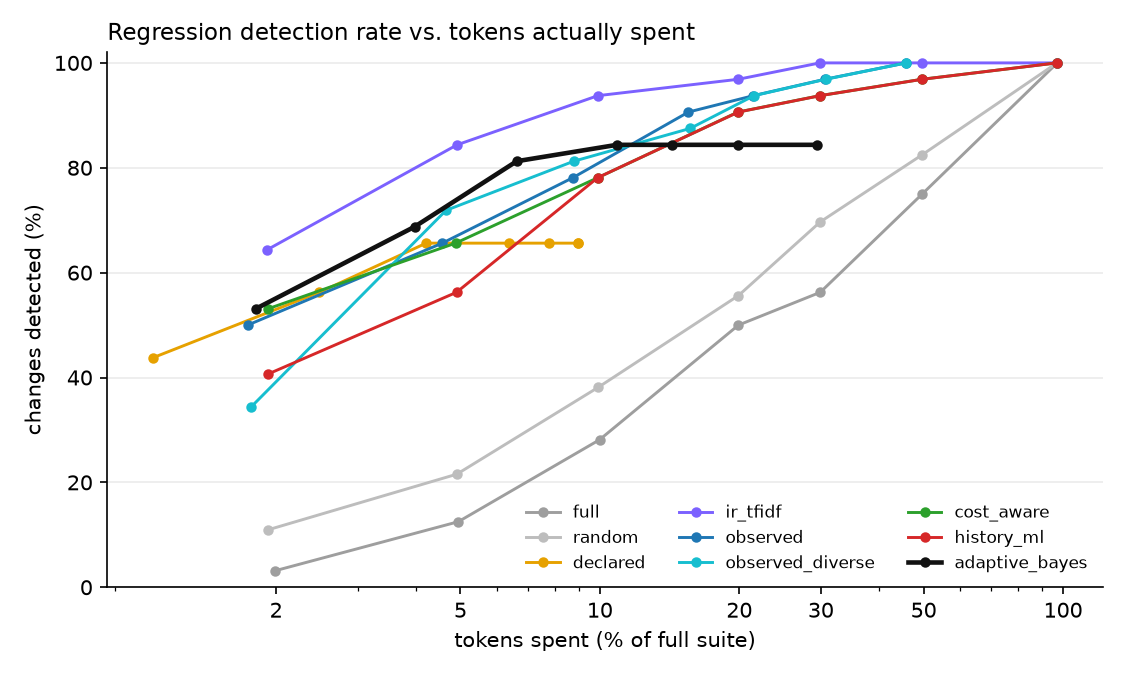
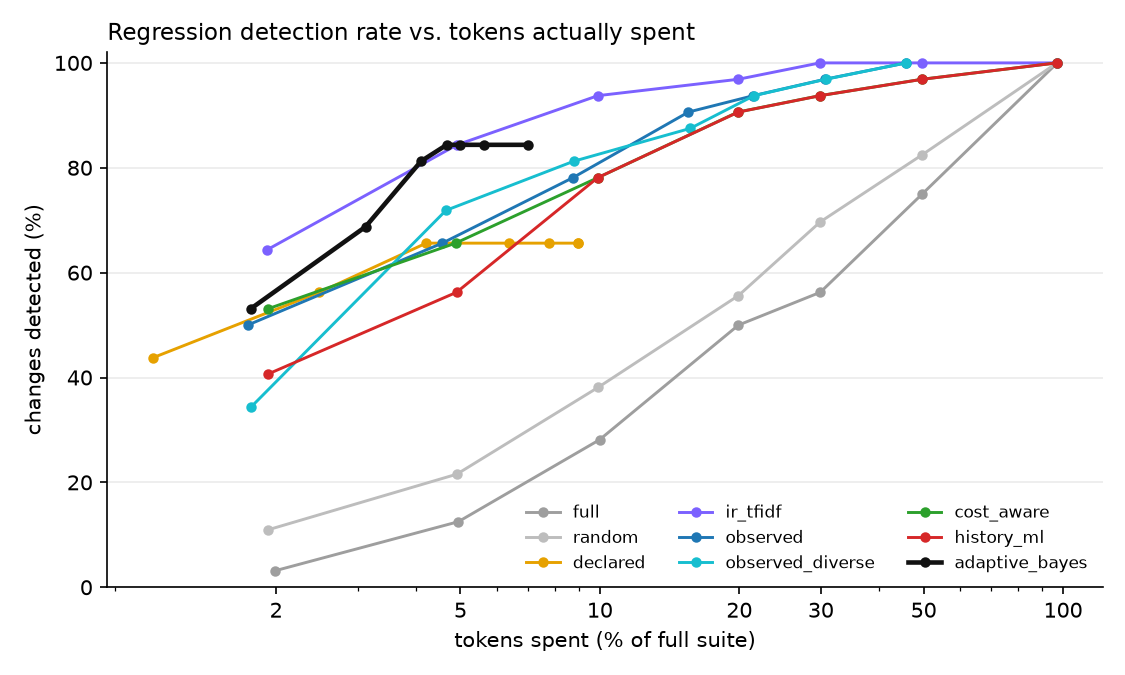
Confirm a failure by re-running it before the adaptive method moves on
A single failure could leave P(any broken) just under 1 - eps_detect; the
passes that followed then wore it down and the method ran to the end of its
budget. The failing test now runs once more before any other. Detection is
unchanged at every budget; tokens spent on regressions at full budget fall
from 29% to 7% of the suite (28% to 8% under flakiness), and no benign
change gets a "regression" verdict.

Also restate the false-alarm figure in RESEARCH_PLAN with its definition
and the current numbers, and keep the project venv in .venv (git-ignored).

Changed region(s): [[0.2489, 0.1867, 0.7467, 0.4356], [0.2178, 0.4356, 0.2489, 0.4667]]

diff --git a/trace-eval/traceeval/selection/adaptive_bayes.py b/trace-eval/traceeval/selection/adaptive_bayes.py
@@ -12,7 +12,10 @@ In plain words
      outcome (taking the test's baseline flakiness into account), and repeat.  After a test passes, tests
      that behave exactly like it (same agents, tools, fault profile, dataset) count for much less.
   4. We stop when P(something is broken) drops below eps_clean ("clean"), when a failure has pushed it
-     above 1 - eps_detect ("regression"), or when the budget is spent.
+     above 1 - eps_detect ("regression"), or when the budget is spent.  A failure that does not push it
+     that far is confirmed first: the same test runs once more before any other.  Flakiness rarely fails
+     a test twice in a row; a broken component does.  Without this, the passes that follow a real failure
+     wear the evidence down and the method runs on to the end of its budget.
 """
 
 import math
@@ -253,6 +256,7 @@ class AdaptiveBayes(Strategy):
         runs_left = np.where(flaky > 0.1, 2, 1)  # flaky tests may be re-run once
         remaining = ctx.budget
         seen_failure = False
+        confirm, confirmed = None, set()  # a failed test to re-run before any other; tests already re-run
         trajectory = []
         while True:
             p_any = 1.0 - post[0]  # hypothesis 0 = nothing broken
@@ -262,17 +266,24 @@ class AdaptiveBayes(Strategy):
             if stopping and seen_failure and p_any > 1.0 - self.eps_detect:
                 log.stop_reason = "regression"
                 break
-            gain, _ = self.info_gain(post, p_fail)
-            score = gain * risk / cost
-            score[(runs_left <= 0) | (cost > remaining) | (gain <= 1e-9)] = -1.0
-            i = int(np.argmax(score))
-            if score[i] <= 0:
-                log.stop_reason = "budget" if remaining < cost.min() else "uninformative"
-                break
+            if confirm is not None and cost[confirm] <= remaining:
+                i = confirm
+            else:
+                gain, _ = self.info_gain(post, p_fail)
+                score = gain * risk / cost
+                score[(runs_left <= 0) | (cost > remaining) | (gain <= 1e-9)] = -1.0
+                i = int(np.argmax(score))
+                if score[i] <= 0:
+                    log.stop_reason = "budget" if remaining < cost.min() else "uninformative"
+                    break
+            confirm = None
             passed, spent = oracle(tests[i])
             runs_left[i] -= 1
             remaining -= spent
             seen_failure = seen_failure or not passed
+            if stopping and not passed and i not in confirmed:
+                confirm = i
+                confirmed.add(i)
             log.steps.append((tests[i], passed, spent))
             post = post * ((1 - p_fail[i]) if passed else p_fail[i])
             post /= post.sum() or 1e-12

diff --git a/trace-eval/tests/test_mutation_and_selection.py b/trace-eval/tests/test_mutation_and_selection.py
@@ -98,5 +98,9 @@ def test_small_end_to_end_experiment(tmp_path):
         )
         log = get_strategy(name).run(ctx, make_oracle(h, "skill_publish_drop_link_validation", random.Random(0)))
         assert any(not ok for _, ok, _ in log.steps), name
+        if name == "adaptive_bayes":  # the first failure ends the run, or is re-run at once and then ends it
+            first = next(i for i, (_, ok, _) in enumerate(log.steps) if not ok)
+            assert first == len(log.steps) - 1 or log.steps[first + 1][0] == log.steps[first][0]
+            assert log.stop_reason == "regression"
     df = evaluate(work, strategies=["observed", "adaptive_bayes"], budgets=(0.2, 1.0), seeds=1)
     assert set(df.strategy) == {"observed", "adaptive_bayes"}

diff --git a/trace-eval/docs/RESEARCH_PLAN.md b/trace-eval/docs/RESEARCH_PLAN.md
@@ -17,9 +17,9 @@ Ciprian Păduraru · University of Bucharest · working document, 6 October 2026
 - **Testbed.** A small real multi-agent app (`traceeval/sut`), 136 tests, 38 controlled changes applied as real
   edits (6 benign), full-suite runs as ground truth, offline replay to compare strategies.
 - **Results so far (simulated agent).** Hand-written dependencies catch 66% of regressions; trace-based selection
-  catches 91% for 20% of the full-suite tokens; the adaptive method catches 84% for 11–29% and stops correctly on
-  benign changes; under 5% agent flakiness it never raises a false regression while the others do in 43–66% of
-  replays. TF-IDF over the diff is a surprisingly strong baseline (84% at 5%). Comments never count: change sets
+  catches 91% for 20% of the full-suite tokens; the adaptive method catches 84% for 5–7% and stops correctly on
+  benign changes; under 5% agent flakiness it never raises a false regression, while the others see at least one
+  failure the change did not cause in 18–65% of replays. TF-IDF over the diff is a surprisingly strong baseline (84% at 5%). Comments never count: change sets
   hold code only, so the results are the same whether or not the code is commented.
 - **Next.** Calibrate sensitivities per test (not per kind), fold the IR signal into the model, run the LLM backend
   on the DGX, then tau2-bench as the external system under test. Paper: ASE/ISSTA/ICST framing.
@@ -116,7 +116,7 @@ s_tc = r_kind(c) · freq_t(c) · tilt_t, where
 
 *Policy.* Next test = argmax over t of (expected information gain about B, tilted by risk) / c(t). After a **pass**, the sensitivities of tests sharing the same behaviour signature (agents, tools, fault profile, dataset) are discounted (×0.35): near-duplicate tests are correlated evidence, not independent draws. Flaky tests may be re-run once.
 
-*Stopping.* Stop "clean" when P(any component broken | evidence) < ε_clean (0.05); stop "regression" when a failure has been observed and P(any broken) > 1 − ε_detect; otherwise until the budget is exhausted or no test is informative. Selection, prioritization and stopping fall out of the same model.
+*Stopping.* Stop "clean" when P(any component broken | evidence) < ε_clean (0.05); stop "regression" when a failure has been observed and P(any broken) > 1 − ε_detect; otherwise until the budget is exhausted or no test is informative. A failure that does not reach 1 − ε_detect on its own is confirmed first: the same test runs once more before any other, since flakiness rarely fails a test twice in a row and a broken component does. Selection, prioritization and stopping fall out of the same model.
 
 ### 3.2 Why these baselines
 
@@ -169,6 +169,8 @@ Re-run again with code-only change sets (§2.1): comments, docstrings, blank lin
 
 Re-run 2026-11-06 after the `rollback_page` service started checking the `rollback` permission itself, with a new mutation that drops the rollback skill's own check (`skill_rollback_drop_permission_check`). With the service still refusing, that mistake leaves the data safe and shows only in behaviour: MNT-03 sees a forbidden call to `rollback_page` and an undeclared `permission_denied` error. It is the counterpart of `skill_publish_drop_permission_check`, where nothing below the skill stops the write. Its one revealing test is declared, so every strategy except `full` and `random` finds it at the 2% budget, and the averages below move by about a point because the set has one more easy regression. A control run of the previous code in the same environment reproduces the archived report exactly.
 
+Re-run again on 2026-11-06 after the adaptive method started confirming failures (§3.1). Before, a single failure could leave P(any broken) just under 1 − ε_detect, and the passes that followed wore it down: under the model, each passing covering test says "had the component been broken, I would probably have failed too". The method then ran on to the end of its budget. On `skill_rollback_drop_permission_check`, MNT-03's failure left P = 0.980 and the method went on to spend 93% of the suite; re-running MNT-03 raises it to 0.9996 and the method stops there. Detection is unchanged at every budget in both conditions. Tokens spent on regressions at full budget fall from 29% to 7% of the suite (from 28% to 8% under flakiness), the "regression" verdict on regressions rises from 940 to 1550 of the 2240 replays, and still no benign change gets one.
+
 Detection rate of regression-inducing changes (32) vs. nominal budget, and tokens actually spent:
 
 | strategy | 5% | 10% | 20% | 50% | 100% | spent @20% | spent @100% | waste on benign @100% |
@@ -179,17 +181,17 @@ Detection rate of regression-inducing changes (32) vs. nominal budget, and token
 | ir_tfidf | 0.84 | 0.94 | 0.97 | 1.00 | 1.00 | 0.20 | 0.97 | 0.99 |
 | observed | 0.66 | 0.78 | 0.91 | 0.97 | 1.00 | 0.16 | 0.46 | 0.22 |
 | cost_aware | 0.66 | 0.78 | 0.91 | 0.97 | 1.00 | 0.20 | 0.97 | 0.99 |
-| adaptive_bayes | 0.69 | 0.81 | 0.84 | 0.84 | 0.84 | **0.11** | **0.29** | **0.34** |
+| adaptive_bayes | 0.69 | 0.81 | 0.84 | 0.84 | 0.84 | **0.05** | **0.07** | **0.34** |
 
 Two optional baselines (`observed_diverse`, `history_ml`; `--strategies all`) stay within ±0.16 of `observed` at every budget. APFD / APFD_c of the full prioritized order: full 0.67/0.57, random 0.49/0.50, declared 0.81/0.76 (selection recall 0.52), ir_tfidf 0.81/0.83, observed 0.82/0.85 (selection recall 1.00 at 49% of the suite cost), observed_diverse 0.83/0.80, cost_aware 0.82/0.85, history_ml 0.81/0.83, adaptive_bayes 0.81/0.79. Cost to first detection: declared 0.024, adaptive 0.025, ir 0.026, cost_aware 0.044, observed 0.045, random 0.144 of the full suite.
 
 **Reading.**
 - *RQ1/RQ2.* Declared metadata caps detection at 66% because shared skills reached through `include`, harness code (retry, dispatcher, runtime loop) and configuration keys are not declared; observed dependencies recover full selection recall and reach 91% detection at 20% of the cost. This is the central quantitative argument for trace-informed selection.
 - *RQ3.* Informed strategies raise APFD_c from 0.50 (random) to 0.76–0.85; cost-aware ranking gives the best APFD_c.
-- *RQ4.* Only the adaptive method returns budget: 84% detection for 11–29% of the cost, 34% on benign changes. On the six benign changes it stopped "clean" in 90, had nothing to test in 140 (the two comment- and format-only changes leave an empty change set) and found "nothing informative left" in 11 of the 241 replays that were not budget-limited, and it raised **no false regression alarm** in any replay. The two crash mutations (one revealing test each) are found from 2% (metadata crash) and from 10% (links-service crash, which `declared` never finds). All five changes it never detects (router phrase weight, termination off-by-six, translation-intent reorder, authoring metadata step, shared link-validation asset rule) are cases where one to three tests among dozens of covering ones reveal the change: the calibrated sensitivities and the near-duplicate discount make the posterior clear before those tests are reached — the honest limit of coverage-based evidence, to be addressed by learned sensitivities at test level and a stronger IR term (§7). A behaviour-preserving edit inside a widely used function (`benign_code_rename_locals`) is declared clean only at full budget, after 82% of the suite (64% while its diff still carried comment words, which raised the lexical tilt of the covering tests): with calibrated sensitivities the model (correctly) does not believe that a few passing covering tests prove such an edit harmless, and below full budget the budget cap decides.
+- *RQ4.* Only the adaptive method returns budget: 84% detection for 5–7% of the cost, 34% on benign changes. On a regression it usually stops at the first confirmed failure, with a "regression" verdict in 1550 of the 2240 replays. On the six benign changes it stopped "clean" in 90, had nothing to test in 140 (the two comment- and format-only changes leave an empty change set) and found "nothing informative left" in 11 of the 241 replays that were not budget-limited, and it raised **no false regression alarm** in any replay. The two crash mutations (one revealing test each) are found from 2% (metadata crash) and from 10% (links-service crash, which `declared` never finds). All five changes it never detects (router phrase weight, termination off-by-six, translation-intent reorder, authoring metadata step, shared link-validation asset rule) are cases where one to three tests among dozens of covering ones reveal the change: the calibrated sensitivities and the near-duplicate discount make the posterior clear before those tests are reached — the honest limit of coverage-based evidence, to be addressed by learned sensitivities at test level and a stronger IR term (§7). A behaviour-preserving edit inside a widely used function (`benign_code_rename_locals`) is declared clean only at full budget, after 82% of the suite (64% while its diff still carried comment words, which raised the lexical tilt of the covering tests): with calibrated sensitivities the model (correctly) does not believe that a few passing covering tests prove such an edit harmless, and below full budget the budget cap decides.
 - *A finding to take seriously:* IR/TF-IDF over the diff is the strongest prioritizer on this testbed (84% at 5%, 94% at 10%). Test names, requests and declared tool names share vocabulary with the edited artefacts (skill procedures mention tool names; config keys appear in diffs). Agent test suites are unusually "textual", which makes IR a serious baseline — and a signal to fold into the Bayesian model more strongly than the current lexical tilt. Whether this holds on tau2-bench (policy text vs. task descriptions) is one of the first external-validity questions.
 
-**Nondeterministic condition** (`runs/exp2_flaky`: simulated agent with a 5% slot-slip rate, 5 reps per variant, 21 of 136 tests flaky at baseline; slips are seeded per test and repetition, so the run is reproducible). The majority-flip ground truth stays clean (sanity check OK) and detection stays close to the deterministic condition: within ±3 points at every budget for full, random, declared, ir and observed, within −8/+3 for cost_aware and −7/+4 for the optional baselines (observed 0.66/0.75/0.92 at 5/10/20%; ir 0.84/0.94/0.97). The adaptive method does as well or better here from 5% up (0.72/0.84/0.84, and 0.88 from 30%) because its misses differ: `code_get_page_review_flag`, `code_router_phrase_weight`, `code_termination_off_by_six` and `skill_linkval_ignore_assets`. The difference between families shows where it matters: strategies without an outcome model observe at least one spurious failure in 43–66% of replays (cost_aware 0.66, history_ml 0.65, random 0.59, full 0.57, ir 0.52, observed 0.43) — in practice a false "regression" alert each time — whereas the Bayesian selector, which carries each test's baseline flakiness in its likelihood and re-runs flaky tests once, observes one in 12% of replays and **never stops with a "regression" verdict on a benign change** (0 of 420). This is the nondeterminism argument of the requirements document made quantitative.
+**Nondeterministic condition** (`runs/exp2_flaky`: simulated agent with a 5% slot-slip rate, 5 reps per variant, 21 of 136 tests flaky at baseline; slips are seeded per test and repetition, so the run is reproducible). The majority-flip ground truth stays clean (sanity check OK) and detection stays close to the deterministic condition: within ±3 points at every budget for full, random, declared, ir and observed, within −8/+3 for cost_aware and −7/+4 for the optional baselines (observed 0.66/0.75/0.92 at 5/10/20%; ir 0.84/0.94/0.97). The adaptive method does as well or better here from 5% up (0.72/0.84/0.84, and 0.88 from 30%) because its misses differ: `code_get_page_review_flag`, `code_router_phrase_weight`, `code_termination_off_by_six` and `skill_linkval_ignore_assets`. The difference between families shows where it matters: strategies without an outcome model see at least one failure the change did not cause (a failing test outside the change's revealing set, counted over all changes and every budget) in 42–65% of replays (cost_aware 0.65, history_ml 0.65, random 0.59, full 0.58, ir 0.52, observed 0.42; declared, which runs few tests, 0.18) — in practice a false "regression" alert each time — whereas the Bayesian selector, which carries each test's baseline flakiness in its likelihood and re-runs a failing test before believing it, sees one in 3% of replays (8% on the benign changes alone, where it runs longest) and **never stops with a "regression" verdict on a benign change** (0 of 420). This is the nondeterminism argument of the requirements document made quantitative.
 
 ---
 
@@ -220,7 +222,7 @@ Immediate next steps (in order): run `runs/exp2_flaky`'s report and compare; imp
 
 **Working title.** TRACE-Eval: change-aware, cost-bounded regression test selection for LLM agent systems.
 
-**Abstract (draft).** Agent platforms ship dozens of agents assembled from skills, prompts, tools, harness code and configuration, and verify them with tests and statistical evals whose cost is dominated by tokens. After a change, teams either re-run everything or guess. We formulate selection, prioritization and budget-aware stopping of agent tests as one problem and propose a method that (i) extracts a change set from the diff at the granularity of code lines, skill procedures, agent-definition fields and configuration keys, (ii) maps it to tests through dependencies *observed* in execution traces rather than declared metadata, (iii) ranks tests by expected information per token in a Bayesian model whose sensitivities are calibrated from history, and (iv) stops when the posterior probability of a regression is low. We evaluate on a testbed with a real multi-agent application, 136 tests/eval items, and 38 controlled changes with mutation-based ground truth, under simulated and LLM-driven agents. Trace-informed selection recovers the 34% of regressions invisible to declared dependencies; the adaptive method detects 84% of regressions for 11–29% of the full-suite tokens and returns most of the budget on benign changes.
+**Abstract (draft).** Agent platforms ship dozens of agents assembled from skills, prompts, tools, harness code and configuration, and verify them with tests and statistical evals whose cost is dominated by tokens. After a change, teams either re-run everything or guess. We formulate selection, prioritization and budget-aware stopping of agent tests as one problem and propose a method that (i) extracts a change set from the diff at the granularity of code lines, skill procedures, agent-definition fields and configuration keys, (ii) maps it to tests through dependencies *observed* in execution traces rather than declared metadata, (iii) ranks tests by expected information per token in a Bayesian model whose sensitivities are calibrated from history, and (iv) stops when the posterior probability of a regression is low. We evaluate on a testbed with a real multi-agent application, 136 tests/eval items, and 38 controlled changes with mutation-based ground truth, under simulated and LLM-driven agents. Trace-informed selection recovers the 34% of regressions invisible to declared dependencies; the adaptive method detects 84% of regressions for 5–7% of the full-suite tokens and returns most of the budget on benign changes.
 
 **Outline.** 1 Introduction (motivation from AEM-scale platforms; nightly batch + PR use; three sub-problems) · 2 Background and related work (RTS/TCP; efficient LLM evaluation; agent benchmarks; fault injection; CASPER as closest work) · 3 Problem formulation and models (§1–2) · 4 Method (§3.1) · 5 Testbed (§4) · 6 Evaluation (RQ1–RQ4 + ablations + LLM/tau2 external validity) · 7 Threats to validity (synthetic mutants vs. real regressions; simulated agent realism; single primary domain; calibration leakage controlled by leave-one-change-out; textual testbed favouring IR) · 8 Conclusion.
 

diff --git a/trace-eval/docs/results/exp2_flaky/report.md b/trace-eval/docs/results/exp2_flaky/report.md
@@ -75,7 +75,7 @@ Tokens actually spent on those changes (fraction of the full suite):
 | observed_diverse | 0.018 | 0.047 | 0.088 | 0.157 | 0.215 | 0.307 | 0.458 |
 | cost_aware | 0.019 | 0.049 | 0.099 | 0.199 | 0.299 | 0.496 | 0.967 |
 | history_ml | 0.019 | 0.049 | 0.099 | 0.199 | 0.299 | 0.497 | 0.967 |
-| adaptive_bayes | 0.018 | 0.039 | 0.068 | 0.109 | 0.141 | 0.186 | 0.278 |
+| adaptive_bayes | 0.017 | 0.030 | 0.041 | 0.051 | 0.056 | 0.062 | 0.077 |
 
 ![detection vs cost](figures/detection_vs_cost.png)
 
@@ -105,7 +105,7 @@ Cost until the first true detection (fraction of the full suite, detected cases 
 | observed_diverse | 0.011 | 0.031 | 0.057 | 0.100 | 0.133 | 0.177 | 0.226 |
 | cost_aware | 0.020 | 0.049 | 0.099 | 0.198 | 0.298 | 0.498 | 0.989 |
 | history_ml | 0.019 | 0.049 | 0.099 | 0.199 | 0.299 | 0.499 | 0.989 |
-| adaptive_bayes | 0.012 | 0.033 | 0.066 | 0.117 | 0.151 | 0.218 | 0.360 |
+| adaptive_bayes | 0.012 | 0.033 | 0.066 | 0.117 | 0.151 | 0.218 | 0.372 |
 
 ![benign waste](figures/benign_waste.png)
 
@@ -113,8 +113,8 @@ Stop reasons of `adaptive_bayes` (rows: is the change a regression?):
 
 | is_regression | budget | clean | no_components | regression | uninformative |
 |---|---|---|---|---|---|
-| False | 186 | 85 | 140 | 0 | 9 |
-| True | 939 | 300 | 0 | 993 | 8 |
+| False | 193 | 83 | 140 | 0 | 4 |
+| True | 408 | 190 | 0 | 1640 | 2 |
 
 ## 4. Prioritization and selection quality
 

diff --git a/trace-eval/docs/results/exp1/report.md b/trace-eval/docs/results/exp1/report.md
@@ -75,7 +75,7 @@ Tokens actually spent on those changes (fraction of the full suite):
 | observed_diverse | 0.018 | 0.047 | 0.088 | 0.157 | 0.215 | 0.307 | 0.458 |
 | cost_aware | 0.019 | 0.049 | 0.099 | 0.199 | 0.298 | 0.496 | 0.969 |
 | history_ml | 0.019 | 0.049 | 0.099 | 0.199 | 0.299 | 0.497 | 0.969 |
-| adaptive_bayes | 0.018 | 0.040 | 0.066 | 0.109 | 0.143 | 0.199 | 0.294 |
+| adaptive_bayes | 0.018 | 0.031 | 0.041 | 0.047 | 0.050 | 0.056 | 0.070 |
 
 ![detection vs cost](figures/detection_vs_cost.png)
 
@@ -114,7 +114,7 @@ Stop reasons of `adaptive_bayes` (rows: is the change a regression?):
 | is_regression | budget | clean | no_components | regression | uninformative |
 |---|---|---|---|---|---|
 | False | 179 | 90 | 140 | 0 | 11 |
-| True | 909 | 320 | 0 | 940 | 71 |
+| True | 420 | 260 | 0 | 1550 | 10 |
 
 ## 4. Prioritization and selection quality
 

diff --git a/trace-eval/README.md b/trace-eval/README.md
@@ -33,7 +33,7 @@ traceeval experiment --workdir runs/exp1 --reps 3 --seeds 10
    waste on harmless changes, and does the adaptive one stop at the right moment.
 
 Headline from `runs/exp1`: hand-written dependencies catch 66% of regressions; trace-based selection catches
-91% for 20% of the full-suite tokens; the adaptive method catches 84% for 11–29% and stops correctly on
+91% for 20% of the full-suite tokens; the adaptive method catches 84% for 5–7% and stops correctly on
 benign changes. ([experiment 1 report](docs/results/exp1/report.md), [flaky-agent condition](docs/results/exp2_flaky/report.md))
 
 ## Spec-driven development on the same testbed

diff --git a/trace-eval/CLAUDE.md b/trace-eval/CLAUDE.md
@@ -6,7 +6,8 @@ systems. Read `README.md` (5 minutes), then `docs/USER_GUIDE.md` only when you n
 ## Commands
 
 ```
-pip install -e ".[dev,ml]"          # or: uv pip install -e ".[dev,ml]"
+uv venv --python 3.12 .venv         # the project venv (git-ignored); use .venv/Scripts/python on Windows
+pip install -e ".[dev,ml]"          # or: uv pip install --python .venv -e ".[dev,ml]" ruff
 pytest -q                           # ~60 s; must stay green
 ruff check traceeval tests --select E,F,W,I,B --line-length 120
 ruff format traceeval tests --line-length 120   # see "Gotchas" before formatting sut/
